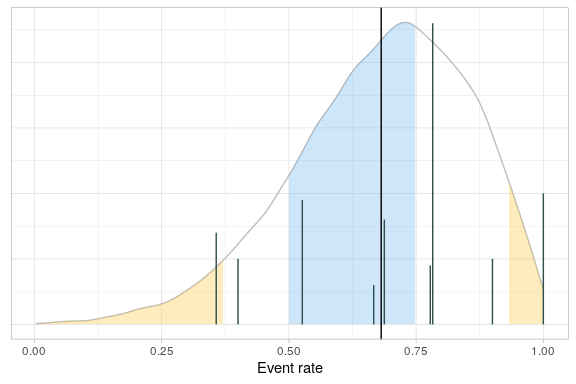
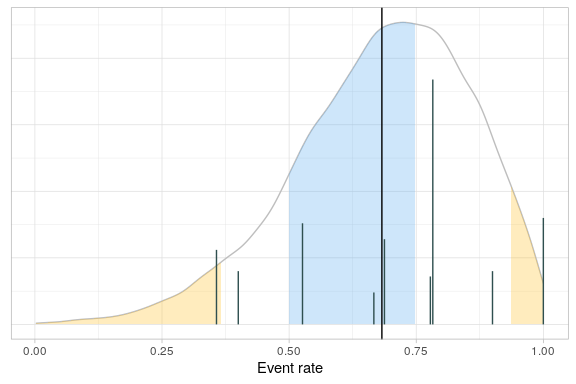
More tests.  Spelling corrections.

diff --git a/README.md b/README.md
@@ -242,11 +242,11 @@ quantiles
 #> # A tibble: 1 × 2
 #>     Q05   Q95
 #>   <dbl> <dbl>
-#> 1 0.371 0.931
+#> 1 0.366 0.934
 ```
 
 So, in this specific case, our QTLs translate to observed event rates of
-37.07% and 93.15% respectively.
+36.64% and 93.37% respectively.
 
 Do any sites have observed event rates outside this range?
 
@@ -304,10 +304,10 @@ Upper
 1.000
 </td>
 <td style="text-align:right;">
-0.371
+0.366
 </td>
 <td style="text-align:right;">
-0.931
+0.934
 </td>
 </tr>
 <tr>
@@ -324,10 +324,10 @@ Upper
 0.357
 </td>
 <td style="text-align:right;">
-0.371
+0.366
 </td>
 <td style="text-align:right;">
-0.931
+0.934
 </td>
 </tr>
 </tbody>
@@ -358,7 +358,7 @@ type of study should be between 0.50 and 0.75. We define the QTL such
 that we require the posterior event probability for a new participant to
 be in the range 0.5 to 0.75 inclusive to be at least 50%.
 
-> When using a Bayesian Hierarchical Model, the probabilties associated
+> When using a Bayesian Hierarchical Model, the probabilities associated
 > with credible intervals are generally lower than those associated with
 > similar frequentist models. This is because BHMs permit more sources
 > of variation. Here, the BHM permits variation between the response
@@ -373,7 +373,7 @@ fitted$tab %>%
 #> # A tibble: 1 × 1
 #>   PosteriorProb
 #>           <dbl>
-#> 1         0.466
+#> 1         0.467
 ```
 
 Again, the QTL is breached, and the process can be summarised
@@ -454,7 +454,7 @@ berrySummary %>%
 #> 9     9        6      4            0.667 OK    
 #> 
 #> $qtl
-#> [1] 0.6813646
+#> [1] 0.6824472
 ```
 
 As with all `evaluateXXXXQTL` functions, the return value of
@@ -514,7 +514,7 @@ berrySummary %>%
 #> 9     9        6      4            0.667 OK    
 #> 
 #> $qtl
-#> [1] 0.6993631
+#> [1] 0.6998252
 ```
 
 and 10th centile of the posterior distribution of
@@ -548,7 +548,7 @@ berrySummary %>%
 #> 
 #> $qtl
 #>       10% 
-#> 0.4465293
+#> 0.4491981
 ```
 
 ##### By calculating the probability that the derived metric is in a given range
@@ -590,7 +590,7 @@ berrySummary %>%
     }
   )
 #> $qtl
-#> [1] 0.6813646
+#> [1] 0.6824472
 #> 
 #> $status
 #> [1] "Breach"
@@ -777,15 +777,15 @@ table <- createObservedOverExpectedTable(
            nObservedRange=seq(50, 1500, 25),
            observedData=observedData
          )
+#> Error in createObservedOverExpectedTable(nHistorical = 10000, historicalRate = 0.014, : NULL is not a column in <tibble[,2]>
 
 table %>% createObservedOverExpectedPlot(observedRate=ObservedRate)
+#> Error in createObservedOverExpectedPlot(., observedRate = ObservedRate): data is not a data.frame
 ```
 
-<img src="man/figures/README-unnamed-chunk-21-1.png" width="80%" />
+## Beyond TransCelerate
 
-## Beyond Transcelerate
-
-At the time of writing (late 2022) The Transcelerate Quality Tolerance
+At the time of writing (late 2022) The TransCelerate Quality Tolerance
 Limit Framework (Transcelerate 2020) lists metrics that are exclusively
 binary in nature. There are many other potential metrics that are
 non-binary and which may provide insight into the conduct of the trial.
